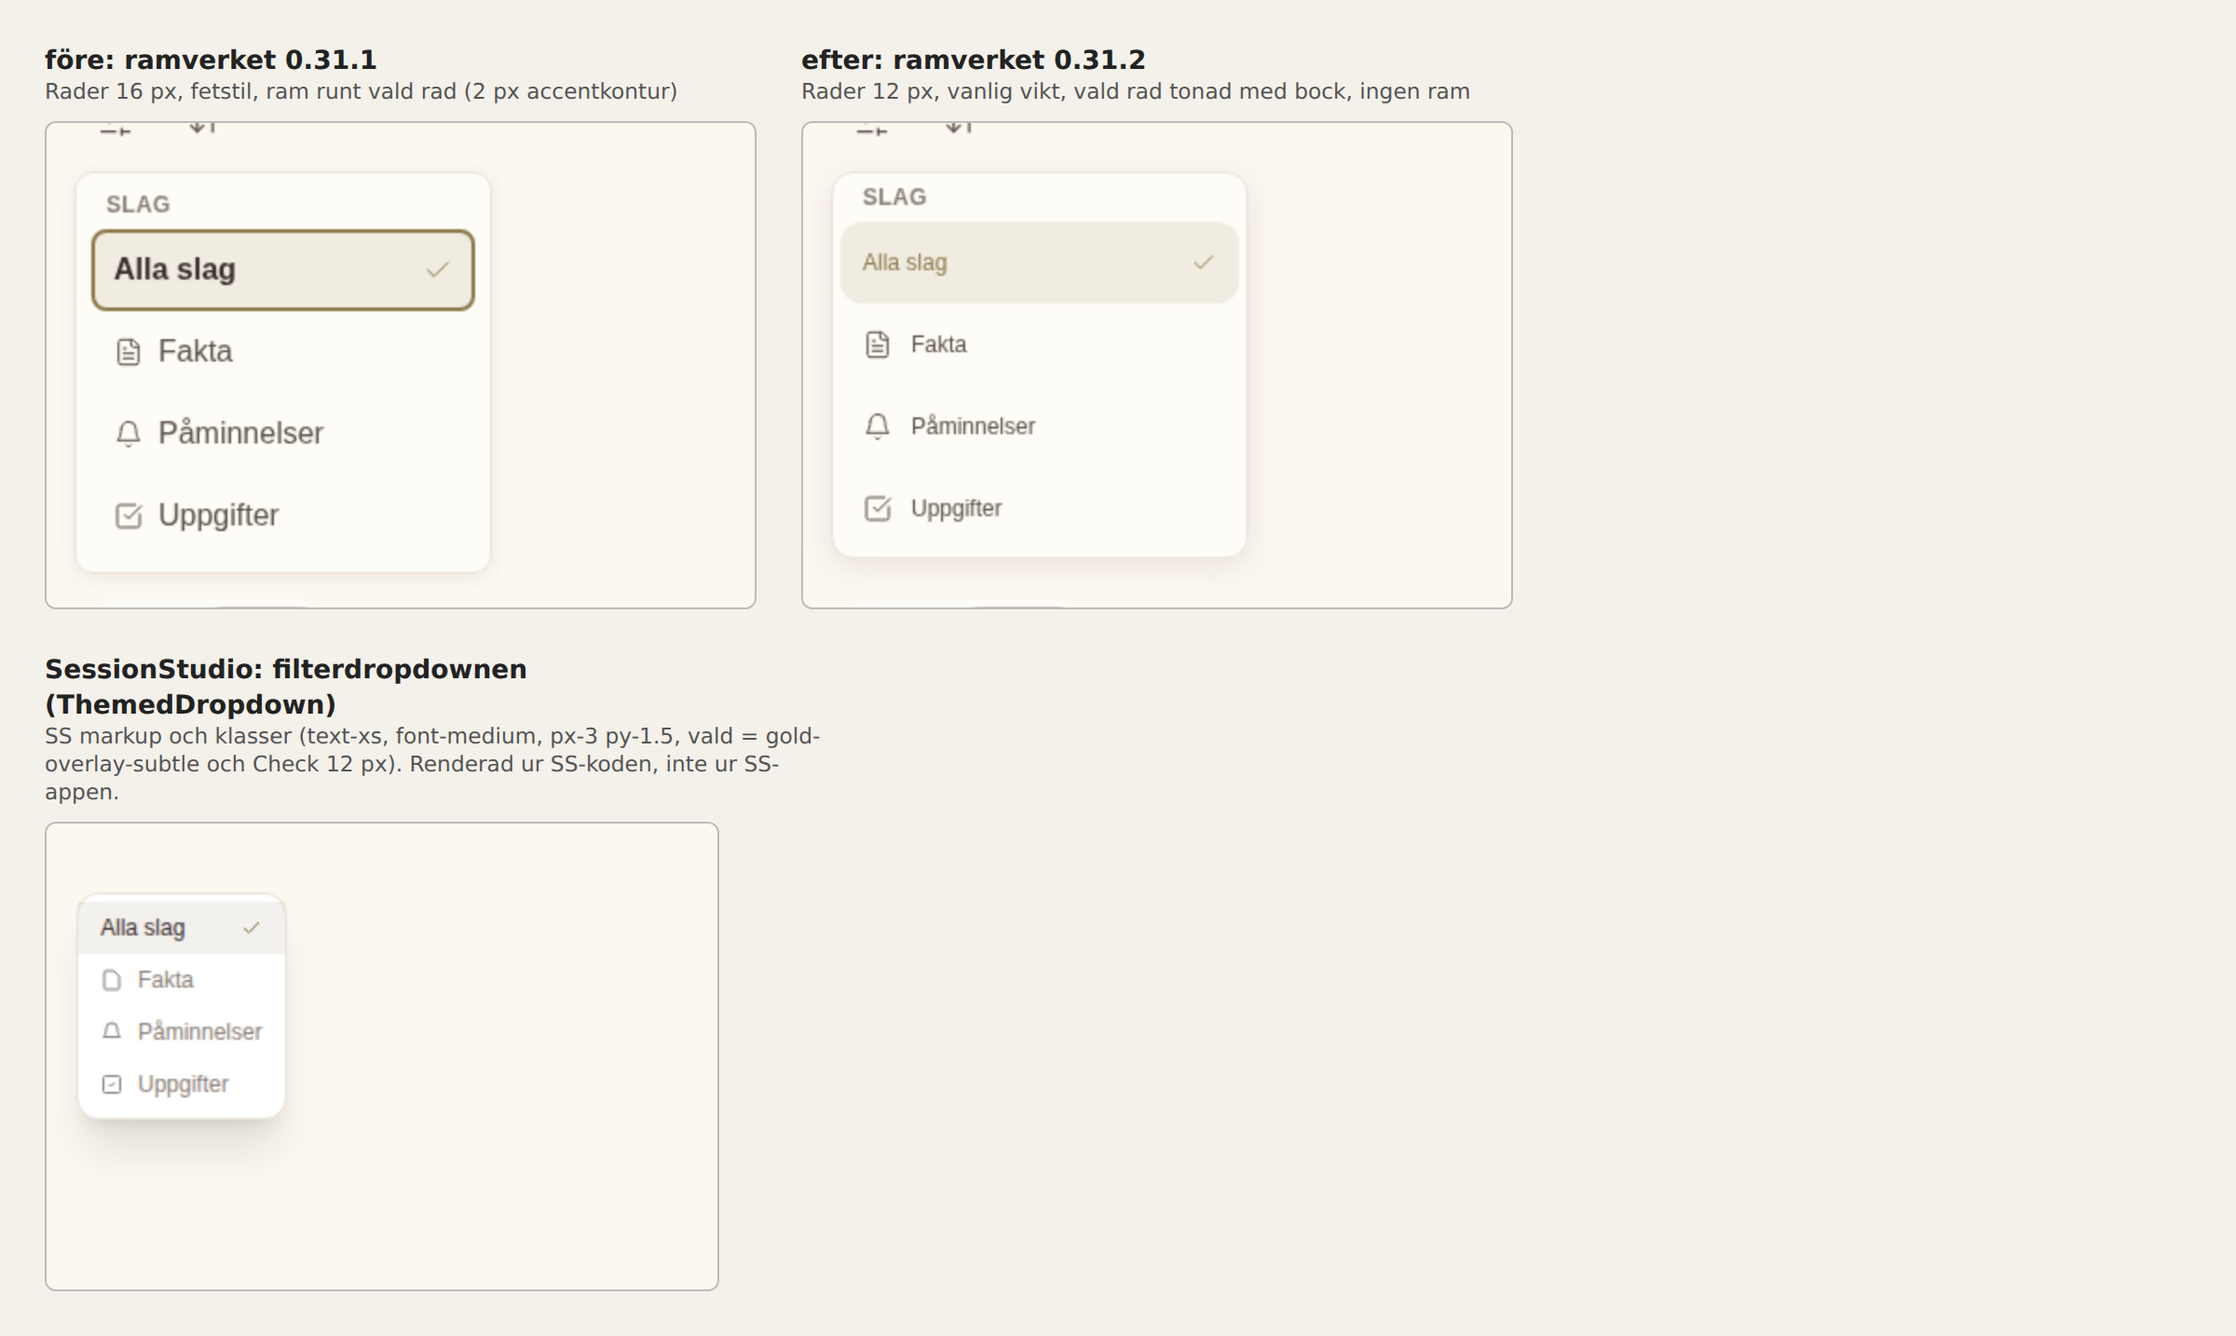
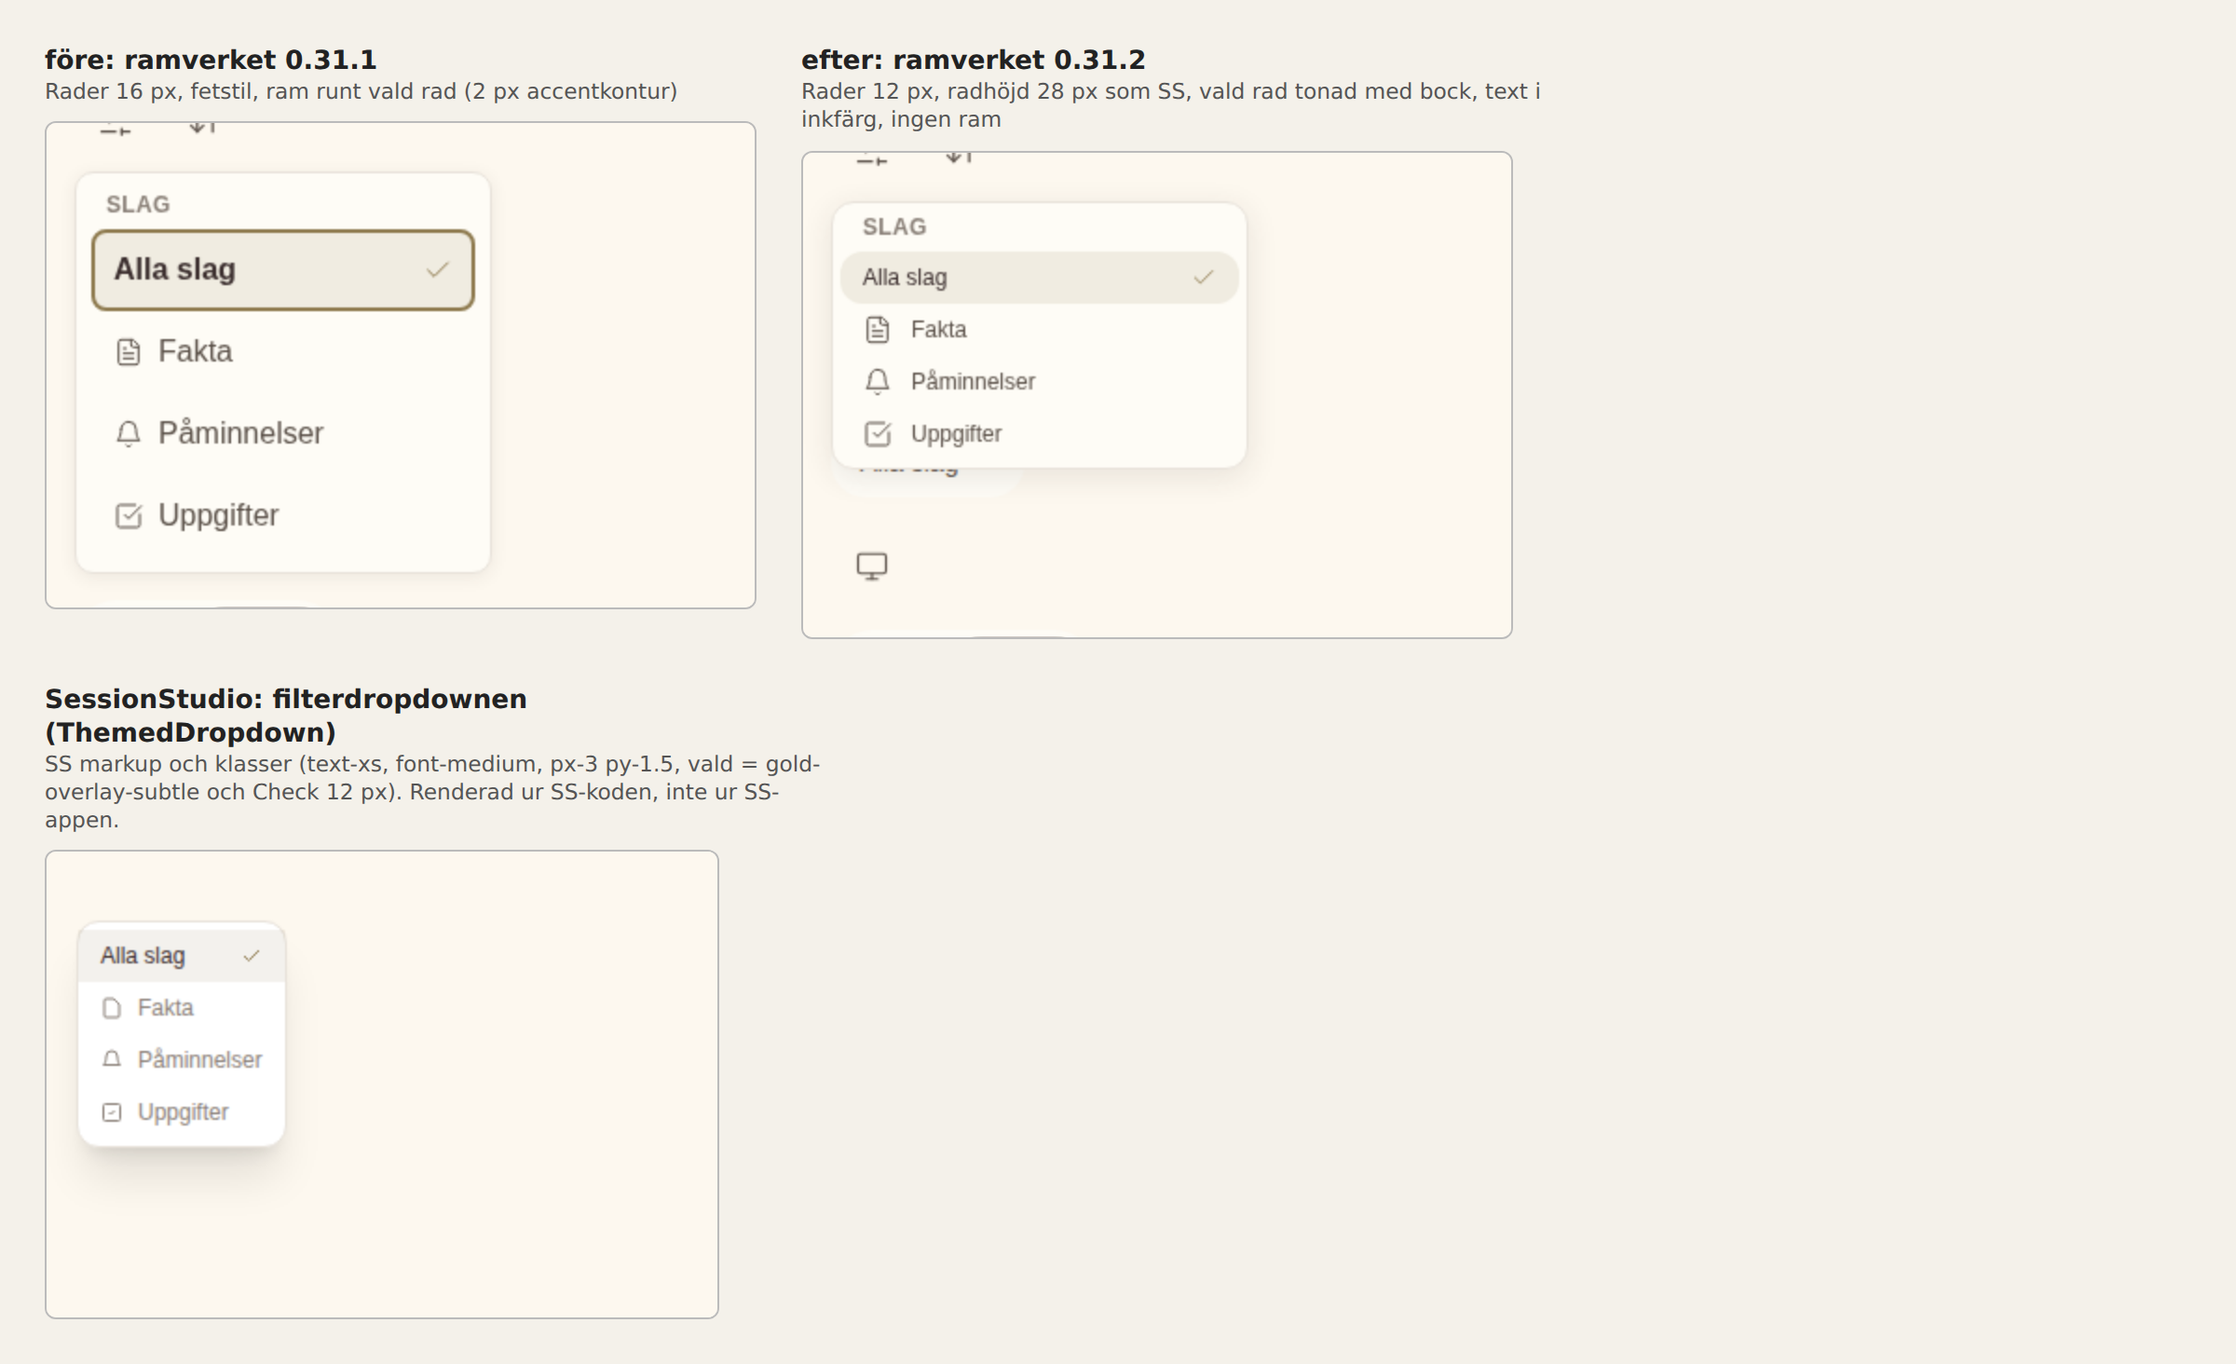
0.31.2: menyraderna har SS hojd pa dator (py per forlaga, 44 px under md), statusmenyn text-sm, vald rads text ink; check-skalyta mater hojd och textfarg
Claude-Session: https://claude.ai/code/session_01MtEbCzeFTkDPr7xPiiaUpz

diff --git a/src/lib/radKlass.js b/src/lib/radKlass.js
@@ -1,5 +1,8 @@
 import { cx } from "./cx.js";
 
+/** @type {Record<number, string>} */
+const PY = { 1.5: "py-1.5", 2: "py-2", 2.5: "py-2.5", 3: "py-3" };
+
 /**
  * Klasserna för EN rad i en meny, en dropdown, ett ark eller plussets lista.
  *
@@ -28,14 +31,16 @@ import { cx } from "./cx.js";
  * @param {boolean} [val.active] "Du är här": `bg-raised text-accent`.
  * @param {boolean} [val.klickbar] Ger pekaren. Förval sant.
  * @param {boolean} [val.vald] Raden är ETT VAL i en lista (`true` = det valda, `false` = ett av de andra), inte en destination. Valt: `bg-accent-subtle text-ink` och en accentbock (SS `--color-gold-overlay-subtle`, `text-primary`, `ThemedDropdown.jsx:122`); övriga hovrar i `bg-hover` (SS `themedSelectShared.js:82`, `FormDropdown`). ⛔ `raised` går inte att använda här: i ljust läge är den SAMMA färg som behållarens `surface`, så en vald rad syntes inte alls.
+ * @param {1.5 | 2 | 2.5 | 3} [val.py] Radens lodräta luft. ⛔ 0.31.2 (koordinatorn: "CP vill exakt SS"): `2.5` är AppHeaderns menyrad (`AppHeader.jsx:514`, `py-2.5`, förval); `1.5` är ThemedDropdown-motsvarigheterna (`ThemedDropdown.jsx:122`, `py-1.5`, filter, chip, tema); `2` formulärlistor och gruppfiltret; `3` `InviteGroupPickerDialog`. Höjden är SS egen från `md` (`md:min-h-0`, radhöjd = 16 eller 20 px text + 2 x luften), och 44 px träffyta under `md`.
  * @param {boolean} [val.stor] Raden bär mer än en textrad (märke, namn, antal): `text-sm`, `gap-3`. SS `InviteGroupPickerDialog.jsx:33-36` (`gap-3`, `text-sm`) och `EventStatusDropdown.jsx:34` (`px-3 py-2`, `text-sm`).
  * @param {boolean} [val.accentFarg] Raden är en åtgärd i accentfärg ('Rensa'), inte ett val och inte plussets stora rad.
  * @returns {string}
  */
-export function radKlass({ accent = false, active = false, klickbar = true, accentFarg = false, stor = false, vald } = {}) {
+export function radKlass({ accent = false, active = false, klickbar = true, accentFarg = false, stor = false, vald, py = 2.5 } = {}) {
+  const luft = PY[py] ?? PY[2.5];
   return cx(
-    "flex min-h-11 w-full items-center rounded-base text-left transition-colors duration-(--duration-fast) ease-standard",
-    accent ? "gap-3 px-4 py-2.5 text-sm font-medium text-accent hover:bg-raised" : stor ? "gap-3 px-3 py-2.5 text-sm" : "gap-2.5 px-3 py-2.5 text-xs",
+    "flex min-h-11 md:min-h-0 w-full items-center rounded-base text-left transition-colors duration-(--duration-fast) ease-standard",
+    accent ? "gap-3 px-4 py-2.5 text-sm leading-5 font-medium text-accent hover:bg-raised" : stor ? cx("gap-3 px-3 text-sm leading-5", luft) : cx("gap-2.5 px-3 text-xs leading-4", luft),
     !accent && vald !== undefined && (vald ? "bg-accent-subtle text-ink" : "text-ink-secondary hover:bg-hover hover:text-ink"),
     !accent && vald === undefined && (active ? "bg-raised text-accent" : accentFarg ? "text-accent hover:bg-raised" : "text-ink-secondary hover:bg-raised hover:text-ink"),
     // ⛔ 0.31.2: FOKUS ÄR EN YTA, INTE EN RAM. Radix flyttar fokus in i en öppnad meny, och första raden
@@ -188,7 +193,7 @@ export const faltYtaKlass = "z-(--z-dropdown) rounded-base border border-line bg
  */
 export function valjAlternativKlass({ dampad = false } = {}) {
   return cx(
-    "relative flex min-h-11 w-full cursor-pointer select-none items-center gap-1.5 rounded-base px-3 py-2 text-left text-sm",
+    "relative flex min-h-11 md:min-h-0 w-full cursor-pointer select-none items-center gap-1.5 rounded-base px-3 py-2 text-left text-sm leading-5",
     dampad ? "text-ink-muted" : "text-ink",
     "data-[highlighted]:bg-hover data-[highlighted]:outline-none data-[state=checked]:bg-accent-subtle",
     "data-[disabled]:cursor-not-allowed data-[disabled]:opacity-55",

diff --git a/src/components/ValRad.jsx b/src/components/ValRad.jsx
@@ -19,16 +19,17 @@ import { radKlass } from "../lib/radKlass.js";
  * @param {boolean} props.chosen
  * @param {() => void} props.onClick
  * @param {import("react").ReactNode} [props.ikon]
+ * @param {boolean} [props.stor] `text-sm`, `py-2.5`: SS `TodayView.jsx:294` (statusmenyn). Utan: `text-xs`, `py-1.5`, SS `ThemedDropdown.jsx:122`.
  * @param {boolean} [props.radio] `role="menuitemradio"` och `aria-checked` i stället för `aria-pressed` (rader i en `role="menu"`).
  * @param {import("react").ReactNode} props.children
  */
-export function ValRad({ chosen, onClick, ikon, radio = false, children }) {
+export function ValRad({ chosen, onClick, ikon, radio = false, stor = false, children }) {
   return (
     <button
       type="button"
       {...(radio ? { role: "menuitemradio", "aria-checked": chosen } : { "aria-pressed": chosen })}
       onClick={onClick}
-      className={radKlass({ vald: chosen })}
+      className={radKlass(stor ? { vald: chosen, stor: true } : { vald: chosen, py: 1.5 })}
     >
       {ikon ? (
         <span aria-hidden="true" className="flex shrink-0 items-center [&_svg]:size-4">

diff --git a/src/components/OpsGruppvaljare.jsx b/src/components/OpsGruppvaljare.jsx
@@ -66,7 +66,7 @@ export function OpsGruppvaljare({ grupper, aktiv, onValj, sprak, rubrik = "Grupp
                  * upplysningen får inte bara finnas som en bakgrundsnyans.
                  */
                 aria-current={vald ? "true" : undefined}
-                className={radKlass({ vald })}
+                className={radKlass({ vald, py: 2 })}
               >
                 {rad.id === ALLA_GRUPPER ? <span className="size-6 shrink-0" aria-hidden="true" /> : <OpsIdentity name={rad.etikett} seed={rad.id} size="sm" />}
                 <span className="grow truncate">{rad.etikett}</span>

diff --git a/src/components/OpsSkapaI.jsx b/src/components/OpsSkapaI.jsx
@@ -139,7 +139,7 @@ function Rubrik({ children }) {
 /** @param {{ vald: boolean, onClick: () => void, children: import("react").ReactNode }} props */
 function Rad({ vald, onClick, children }) {
   return (
-    <button type="button" aria-pressed={vald} onClick={onClick} className={radKlass({ vald, stor: true })}>
+    <button type="button" aria-pressed={vald} onClick={onClick} className={radKlass({ vald, stor: true, py: 3 })}>
       {children}
       {vald ? (
         <span aria-hidden="true" className="shrink-0 text-accent">

diff --git a/src/components/OpsSegmented.jsx b/src/components/OpsSegmented.jsx
@@ -198,6 +198,7 @@ export function OpsSegmented({ options, value, onChange, ariaLabel }) {
                     <ValRad
                       key={item.value}
                       radio
+                      stor
                       chosen={item.value === value}
                       ikon={item.icon}
                       onClick={() => {

diff --git a/docs/jamforelser/0.31.2/menyer.md b/docs/jamforelser/0.31.2/menyer.md
@@ -9,21 +9,21 @@ Raden bor på ETT ställe: `radKlass` (menyer, dropdowns), `ValRad` (valbar rad,
 
 | # | Yta (komponent) | SS-motsvarighet (fil:rad, klasser) | Före: text / vikt / luft / vald | Efter: text / vikt / luft / höjd / vald | Ändrad |
 |---|---|---|---|---|---|
-| 1 | Filter, en ikon per grupp, "Slag" (`OpsFilterPanel` ikoner) | `ThemedDropdown.jsx:122` `px-3 py-1.5 text-xs font-medium`, vald `gold-overlay-subtle` + `Check` 12 px | 16 px / 600 / 12x0 / 2 px accentkontur | 12 px / 400 / 12x10 / 44 px / tonad yta + bock, ingen ram | ja |
-| 2 | Filter, sorteringsikonen | samma | 16 px / 600 / 12x0 / 2 px kontur | 12 px / 400 / 12x10 / 44 px | ja |
-| 3 | Filter, samlad panel (`OpsFilterPanel`) | samma | 16 px / 600 / 12x0 / 2 px kontur | 12 px / 400 / 12x10 / 44 px | ja |
-| 4 | `OpsFilterChip` (ikon och textpiller) | samma | 16 px / 600 / 12x0 / 2 px kontur | 12 px / 400 / 12x10 / 44 px | ja |
-| 5 | Temaväljaren (`OpsThemeToggle`) | `AppHeader.jsx` temaknappen, raderna som ovan | 16 px / 600 / 12x0 / 2 px kontur | 12 px / 400 / 12x10 / 44 px | ja |
-| 6 | Idag/Kommande, statusmenyn (`OpsSegmented` menu) | `TodayView.jsx:294,357` `px-3 py-2.5 text-sm`, vald `bg-hover font-semibold` + `Check` 14 px | 14 px / 600 / 12x0 | 12 px / 400 / 12x10 / 44 px | ja (SS är 14: se not 2) |
-| 7 | `OpsSelect` | `themedSelectShared.js:81-86` `optionSizeForm px-3 py-2 text-sm`, bock sist | 16 px / 400 / 32x8 (bock först, `pl-8`) / 40 px | 14 px / 400 / 12x8 / 44 px / bock sist | ja |
-| 8 | `OpsTimePicker` | samma | 16 px / 400 / 32x8 / 40 px | 14 px / 400 / 12x8 / 44 px | ja |
+| 1 | Filter, en ikon per grupp, "Slag" (`OpsFilterPanel` ikoner) | `ThemedDropdown.jsx:122` `px-3 py-1.5 text-xs font-medium`, vald `gold-overlay-subtle` + `Check` 12 px | 16 px / 600 / 12x0 / 2 px accentkontur | 12 px / 400 / 12x6 / **28 px** (44 under md) / tonad yta + bock, ingen ram | ja |
+| 2 | Filter, sorteringsikonen | samma | 16 px / 600 / 12x0 / 2 px kontur | 12 px / 400 / 12x6 / 28 px (44 under md) | ja |
+| 3 | Filter, samlad panel (`OpsFilterPanel`) | samma | 16 px / 600 / 12x0 / 2 px kontur | 12 px / 400 / 12x6 / 28 px (44 under md) | ja |
+| 4 | `OpsFilterChip` (ikon och textpiller) | samma | 16 px / 600 / 12x0 / 2 px kontur | 12 px / 400 / 12x6 / 28 px (44 under md) | ja |
+| 5 | Temaväljaren (`OpsThemeToggle`) | `AppHeader.jsx` temaknappen, raderna som ovan | 16 px / 600 / 12x0 / 2 px kontur | 12 px / 400 / 12x6 / 28 px (44 under md) | ja |
+| 6 | Idag/Kommande, statusmenyn (`OpsSegmented` menu) | `TodayView.jsx:294,357` `px-3 py-2.5 text-sm`, vald `bg-hover font-semibold` + `Check` 14 px | 14 px / 600 / 12x0 | 14 px / 400 / 12x10 / 40 px (44 under md) | ja (SS `text-sm`, exakt) |
+| 7 | `OpsSelect` | `themedSelectShared.js:81-86` `optionSizeForm px-3 py-2 text-sm`, bock sist | 16 px / 400 / 32x8 (bock först, `pl-8`) / 40 px | 14 px / 400 / 12x8 / 36 px (44 under md) / bock sist | ja |
+| 8 | `OpsTimePicker` | samma | 16 px / 400 / 32x8 / 40 px | 14 px / 400 / 12x8 / 36 px (44 under md) | ja |
 | 9 | `OpsDatePicker` (dagarna, rubrik, Rensa) | `ThemedDatePicker.jsx:300,351` `text-xs`, dagar `h-7`, veckodag 10 px | dagar 16 px | dagar 12 px, rubrik 12 px, veckodag 10 px, ruta 36 px (44 på telefon) | ja |
-| 10 | Aktivitet, Mer-menyn (`OpsActivityListActions`) | `AppHeader.jsx:514` menyraderna `text-xs px-3 py-2.5` | 14 px / 400 / 12x0 / 36 px | 12 px / 400 / 12x10 / 44 px | ja |
+| 10 | Aktivitet, Mer-menyn (`OpsActivityListActions`) | `AppHeader.jsx:514` menyraderna `text-xs px-3 py-2.5` | 14 px / 400 / 12x0 / 36 px | 12 px / 400 / 12x10 / 36 px (44 under md) | ja |
 | 11 | Aktivitet, filterplats (`filter`) | appens innehåll | (appens) | behållaren är nu `radBehallare` | ytan |
-| 12 | Grupplistan i meny (`OpsGruppvaljare`) | `MenuPanelGroupFilter.jsx:64-106` `px-2.5 py-2 text-[11px]`, vald tonad + `Check` | 14 px / 400 / 8x0 / vald `bg-sunken font-semibold` | 12 px / 400 / 12x10 / 44 px / tonad + bock | ja |
-| 13 | Skapa i, dialogen (`OpsSkapaI`) | `InviteGroupPickerDialog.jsx:33-36` `gap-3 p-3 text-sm`, ram | 16 px (knappen) / 12x8 / vald = 1 px accentram | 14 px / 12x10 / 44-54 px / vald tonad + bock, ingen ram | ja |
-| 14 | Huvudets meny (`OpsAppShell` + `OpsPanelRow`) | `MobileHamburgerMenu.jsx:288` `px-3 py-2.5 text-xs` | 12 px / 400 / 12x10 (0.30.0) | oförändrad (fokus se not 1) | nej |
-| 15 | Skapa-menyn, plus (`OpsPanelRow accent`) | `AppHeader.jsx:384` `px-4 py-2.5 text-sm font-medium` accent | 14 px / 500 / 16x10 | oförändrad | nej |
+| 12 | Grupplistan i meny (`OpsGruppvaljare`) | `MenuPanelGroupFilter.jsx:64-106` `px-2.5 py-2 text-[11px]`, vald tonad + `Check` | 14 px / 400 / 8x0 / vald `bg-sunken font-semibold` | 12 px / 400 / 12x8 / 40 px (44 under md) / tonad + bock | ja |
+| 13 | Skapa i, dialogen (`OpsSkapaI`) | `InviteGroupPickerDialog.jsx:33-36` `gap-3 p-3 text-sm`, ram | 16 px (knappen) / 12x8 / vald = 1 px accentram | 14 px / 12x12 / 58 px (44 under md) / vald tonad + bock, ingen ram | ja |
+| 14 | Huvudets meny (`OpsAppShell` + `OpsPanelRow`) | `MobileHamburgerMenu.jsx:288` `px-3 py-2.5 text-xs` | 12 px / 400 / 12x10 (0.30.0) | 12x10, 36 px på dator (44 under md), fokus se not 1 | nej |
+| 15 | Skapa-menyn, plus (`OpsPanelRow accent`) | `AppHeader.jsx:384` `px-4 py-2.5 text-sm font-medium` accent | 14 px / 500 / 16x10 | 40 px på dator (44 under md) | nej |
 | 16 | Hub-rullgardinen och bottenraden (`radKlass`) | som 14 | 12 px / 400 / 12x10 | oförändrad | nej |
 | 17 | Menyarket (`OpsMeny`, `OpsBottomNav`) | `MobileHamburgerMenu.jsx:288` | 12 px | oförändrad | nej |
 | 18 | Gruppanelen (`OpsGruppanel`) | `AppSidebar.jsx` (0.30.1, avsnitt 8, redan SS-exakt) | mätt i avsnitt 8 | oförändrad | nej |
@@ -40,9 +40,14 @@ Vakten mäter 16 av dem i 1280 och 390 px (30 mätningar), resten är ren läsni
 - **Den valda raden syntes inte i ljust läge:** `raised` är samma färg som `surface` i ljust tema, och behållarna var `bg-raised`. Valt är nu `bg-accent-subtle` (SS `gold-overlay-subtle`), behållarna `bg-surface`.
 - **Rubriken** ("SLAG") stod 4 px till vänster om sina rader (`px-2` mot radens `px-3`): `radRubrikKlass`.
 
-## Noter (avvikelser som är avsiktliga)
+## Höjden är SS egen på dator (koordinatorn: "CP vill exakt SS")
+
+Radhöjd = radens text (`text-xs` 16 px, `text-sm` 20 px, satt med `leading-4`/`leading-5` som Tailwind) + 2 x luften. Från `md` är `min-h` borta (`md:min-h-0`, i `radKlass` och
+`valjAlternativKlass`), under `md` är raden minst 44 px. Luften väljs per SS-förlaga med `radKlass({ py })`: `1.5` ThemedDropdown (filter, chip, tema: 28 px),
+`2.5` AppHeader-menyrader (36 px, statusmenyn `text-sm` 40 px, plus-menyn 40 px), `2` formulärlistor (36 px) och grupplistan (40 px, 24 px märke), `3` Skapa i. Vakten mäter
+höjden mot dessa värden på 1280 och minst 44 vid 390. Vald rads text är inkfärgen (SS `text-primary`), mätt mot `--color-ink`.
+
+## Noter
 
 1. Fokus på en rad ritas som `bg-hover` och inte som ram. SS har ingen egen fokusram i sina menyer.
-2. Statusmenyn (rad 6) är `text-sm` i SS (`TodayView.jsx:294`) men `text-xs` i alla andra SS-menyer; den följer menystandarden (12 px). Byte till 14 är en rad i `radKlass` om CP vill ha SS-siffran där.
-3. Höjden är minst 44 px (tumkravet), SS är 28 till 38 px. Bredd, text och luft är SS.
-4. Hover på menyns navigeringsrader är `bg-raised` (SS `hover:bg-card`) och syns inte i ljust läge, eftersom `raised` = `surface` där. SS har samma egenskap i den profilen. Ej ändrat, men värt ett beslut.
+2. Hover på menyns navigeringsrader är `bg-raised` (SS `hover:bg-card`) och syns inte i ljust läge, eftersom `raised` = `surface` där. SS har samma egenskap i den profilen. Ej ändrat, men värt ett beslut.

diff --git a/CHANGELOG.md b/CHANGELOG.md
@@ -24,8 +24,8 @@ Orsaken var att samma rad skrevs i fyra filer (`OpsFilterPanel`, `OpsFilterChip`
 (tabell med SS fil:rad, före och efter: `docs/jamforelser/0.31.2/menyer.md`). Också ändrat: datumväljarens text (16 till 12 px, SS `ThemedDatePicker`),
 Aktivitets Mer-meny (14 till 12 px), grupplistan och "Skapa i" (vald rad = tonad yta och bock, ingen ram), rubriken över raderna står i radernas kolumn.
 ⛔ Den valda raden syntes inte i ljust tema: `raised` är samma färg som `surface` där, och behållarna var `bg-raised`. Nu `bg-surface` och valt `bg-accent-subtle`.
-Fokus på en menyrad är en yta (`bg-hover`), inte en ram. Vakt: check-skalyta avsnitt 18 öppnar 16 ytor i 1280 och 390 px (30 mätningar, golv 28) med
-tangentbordet och mäter radens text, vikt, typsnitt, luft, höjd samt den valda radens kant, kontur, bock och yta. **Rött mot 0.31.1: 84 brott** (16 px, 600,
+Raderna har SS höjd på dator (28 px för ThemedDropdown-raderna, 36 för AppHeader-raderna, 40 för statusmenyn som är `text-sm` som SS `TodayView.jsx:294`) och 44 px träffyta under `md`; vald rads text är `text-ink` som SS. Fokus på en menyrad är en yta (`bg-hover`), inte en ram. Vakt: check-skalyta avsnitt 18 öppnar 16 ytor i 1280 och 390 px (30 mätningar, golv 28) med
+tangentbordet och mäter radens text, vikt, typsnitt, luft, höjd samt den valda radens kant, kontur, bock och yta. **Rött mot 0.31.1: 84 brott, och mot första 0.31.2-versionen 28 (radhöjden 44 mot SS 28)** (16 px, 600,
 konturen 2 px, 32x8 i listorna), **grönt nu: 726 kontroller, inga brott.**
 
 ### B. Appens stilrot får inte omforma skalet (`check:tokens`)
